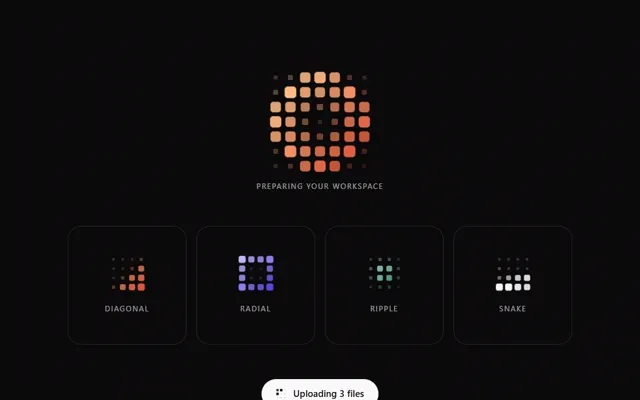
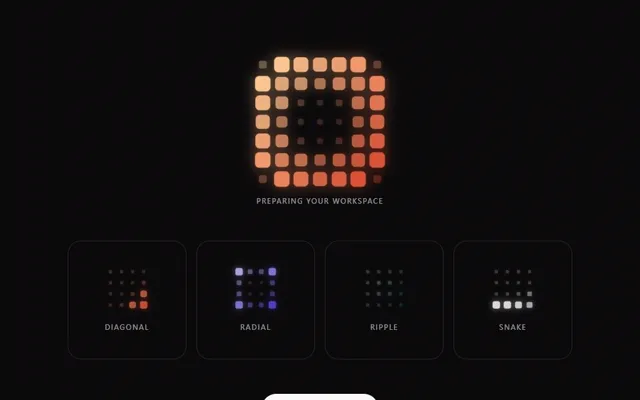
pixel-wave-loader glow + larger demo; curved-thread-timeline demo as a full workspace with detail pane

diff --git a/components/pixel-wave-loader/pixel-wave-loader.tsx b/components/pixel-wave-loader/pixel-wave-loader.tsx
@@ -54,7 +54,7 @@ export function tint(x: number, y: number, cols: number, rows: number): number {
 const CSS =
   ".pwl-root{display:inline-flex;flex-direction:column;align-items:center;gap:14px;color:var(--color-foreground,#111)}" +
   ".pwl-grid{display:grid;grid-template-columns:repeat(var(--pwl-cols),var(--pwl-size));gap:var(--pwl-gap)}" +
-  ".pwl-p{width:var(--pwl-size);height:var(--pwl-size);border-radius:28%;background:color-mix(in oklab,var(--pwl-to) var(--t),var(--pwl-from));" +
+  ".pwl-p{width:var(--pwl-size);height:var(--pwl-size);border-radius:28%;background:color-mix(in oklab,var(--pwl-to) var(--t),var(--pwl-from));box-shadow:0 0 calc(var(--pwl-size) * .9) color-mix(in oklab,color-mix(in oklab,var(--pwl-to) var(--t),var(--pwl-from)) 55%,transparent);" +
   "transform:scale(.38);opacity:.2;animation:pwl-wave var(--pwl-d) cubic-bezier(.45,0,.4,1) infinite;animation-delay:calc(var(--ph) * var(--pwl-d) * .7 - var(--pwl-d));will-change:transform,opacity}" +
   ".pwl-label{font-size:12px;letter-spacing:.14em;text-transform:uppercase;opacity:.6;font-family:ui-sans-serif,system-ui,-apple-system,'Segoe UI',sans-serif}" +
   "@keyframes pwl-wave{0%,62%,100%{transform:scale(.38);opacity:.2}18%{transform:scale(1.06);opacity:1}32%{transform:scale(.92);opacity:.86}}" +

diff --git a/components/pixel-wave-loader/demo.tsx b/components/pixel-wave-loader/demo.tsx
@@ -12,11 +12,11 @@ const tiles = [
 export default function Demo() {
   return (
     <div className="min-h-[100svh] w-full bg-background text-foreground flex flex-col items-center justify-center gap-14 px-5 py-16">
-      <PixelWaveLoader rows={7} cols={7} size="18px" gap="6px" pattern="radial" from="#ffd39a" to="#d8462c" duration={1.7} label="Preparing your workspace" />
+      <PixelWaveLoader rows={7} cols={7} size="24px" gap="7px" pattern="radial" from="#ffd39a" to="#d8462c" duration={1.7} label="Preparing your workspace" />
       <div className="grid w-full max-w-[820px] grid-cols-2 gap-4 sm:grid-cols-4">
         {tiles.map((t) => (
           <div key={t.label} className="flex aspect-square flex-col items-center justify-center gap-5 rounded-[22px] border border-border">
-            <PixelWaveLoader pattern={t.pattern} from={t.from} to={t.to} rows={4} cols={4} size="11px" gap="4px" />
+            <PixelWaveLoader pattern={t.pattern} from={t.from} to={t.to} rows={4} cols={4} size="13px" gap="5px" />
             <span className="text-[12px] tracking-[.14em] uppercase opacity-60">{t.label}</span>
           </div>
         ))}
